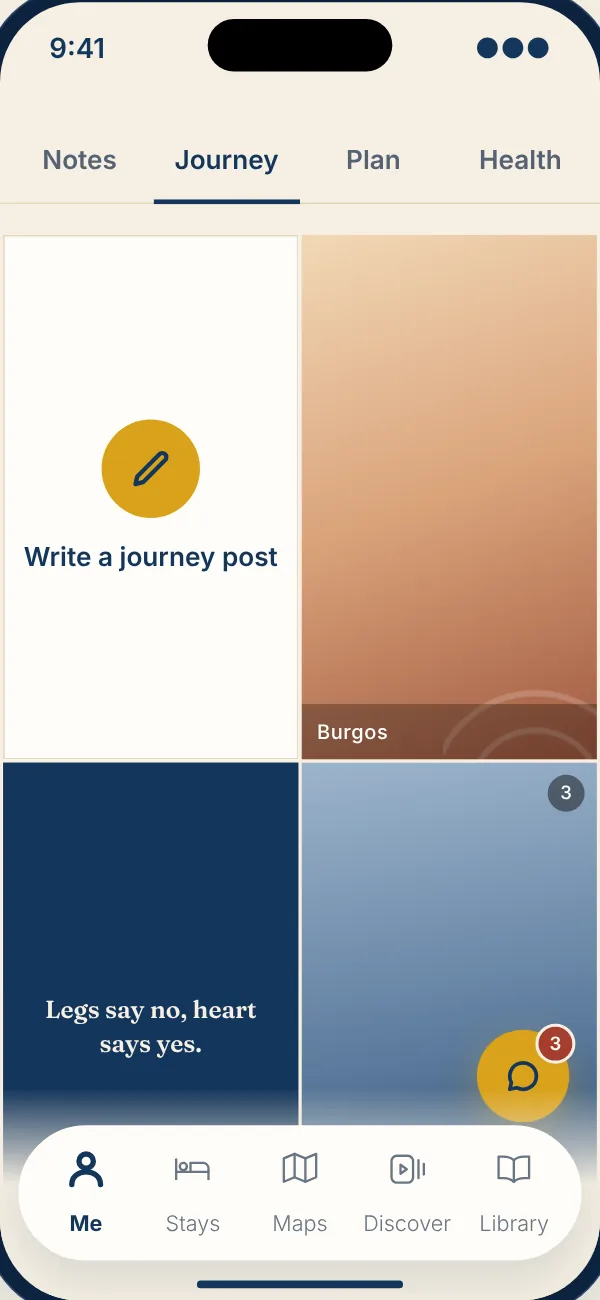
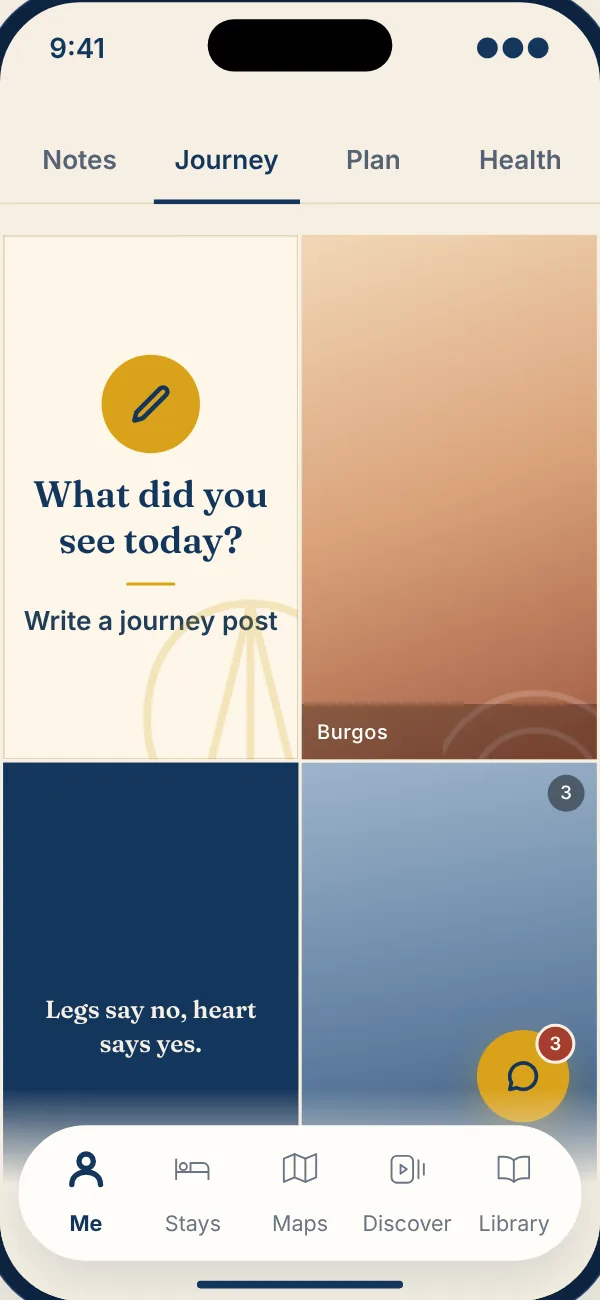
Journey: a more beautiful "Write a journey post" card (#113)
Owner: the "Write a journey post" card was too plain. The first tile of the Journey grid keeps its size, square corners and 2 px gaps, and stays ONE button with the same accessible label, but is now a faint gold wash with a large shell running off the bottom right corner, the gold circle with the pen, "What did you see today?" in Fraunces, a short gold rule and then "Write a journey post". Roles only, so dark mode follows; fits at 320 wide with large text. A contrast check in the tests keeps the words at 4.5 to 1 over the wash and the shell, pressed or not, in both modes (it found muted text at 4.19 to 1 while pressed). Two other designs (a warm one with a dotted path, a bold navy one) are saved as patches.

The design page card and the website picture me-journey.webp are regenerated and show the new card and the new tab bar. The web-smoke scenario now expects the card's question and the action.

Checked: tsc, unit checks, Python tests, design-lint, whole web smoke in CI.

Claude-Session: https://claude.ai/code/session_01Nqpq6SZ55VfnVqdosYhF6n

diff --git a/design/index.html b/design/index.html
@@ -857,9 +857,18 @@ footer .hand { font-family: var(--cp-font-accent); font-size: 36px; color: var(-
 .jg .jt.txt p { margin: 0; font-family: var(--cp-font-title); font-weight: 600; font-size: 16px; line-height: 22px; text-align: center; }
 .jg .jt.txt.blue { background: var(--cp-color-blue); color: var(--cp-color-parchment); }
 .jg .jt.txt.gold { background: var(--cp-color-gold); color: var(--cp-color-blue); }
-.jg .jt.write { display: flex; flex-direction: column; align-items: center; justify-content: center; gap: 14px; padding: 0 12px; background: var(--cp-surface); box-shadow: inset 0 0 0 1px var(--cp-border); font-weight: 600; font-size: 17px; line-height: 22px; text-align: center; cursor: pointer; }
+/* the card that writes a journey post (mobile/src/features/me/WriteCard.tsx): a faint gold wash, a large shell as art off the bottom right corner, the gold
+   circle with the pen, the invitation in Fraunces, a short gold rule, the action; the numbers are JOURNEY_WRITE_CARD of features/me/tabs.ts (wash 0.07, shell 0.22) */
+.jg .jt.write { display: flex; flex-direction: column; align-items: center; justify-content: center; gap: 12px; padding: 0 12px; background: var(--cp-surface); box-shadow: inset 0 0 0 1px var(--cp-border); color: var(--cp-text); font-weight: 600; font-size: 17px; line-height: 22px; text-align: center; cursor: pointer; }
+.jg .jt.write::before { content: ""; position: absolute; inset: 0; background: var(--cp-highlight); opacity: .07; }
+.jg .jt.write > * { position: relative; }
+.jg .jt.write .art { position: absolute; width: 105%; aspect-ratio: 1; right: -36%; bottom: -21%; opacity: .22; color: var(--cp-highlight); }
+.jg .jt.write .art svg { width: 100%; height: 100%; fill: none; stroke: currentColor; stroke-width: .6px; stroke-linecap: round; stroke-linejoin: round; }
 .jg .jt.write .ico { width: 64px; height: 64px; border-radius: 50%; background: var(--cp-highlight); color: var(--cp-on-highlight); display: grid; place-items: center; }
-.jg .jt.write .ico .cp-icon { width: 30px; height: 30px; stroke-width: 2.2px; }
+.jg .jt.write .ico .cp-icon { width: 32px; height: 32px; stroke-width: 2.2px; }
+.jg .jt.write .q { font-family: var(--cp-font-title); font-weight: 600; font-size: 24px; line-height: 30px; }
+.jg .jt.write .rule { width: 32px; height: 2px; border-radius: 1px; background: var(--cp-highlight); }
+.phone[style*="width:320px"] .jg .jt.write { gap: 8px; } .phone[style*="width:320px"] .jg .jt.write .ico { width: 56px; height: 56px; } .phone[style*="width:320px"] .jg .jt.write .ico .cp-icon { width: 28px; height: 28px; } /* the tile of a small phone, as the app draws it (compact) */
 /* ---- Pilgrim: the profile of another pilgrim (mobile/app/pilgrim/[id].tsx). Back, @username and the three dots; the card; Message, Add friend, Requested, or Accept and Decline; their journey in the
    grid of Me without the card that writes a post. A private profile that is not a friend's is a minimal card. Nothing private is on it: no Notes, Plan or Health, no tab strip. ---- */
 .pf-top { display: flex; align-items: center; gap: 12px; }
@@ -2228,7 +2237,7 @@ footer .hand { font-family: var(--cp-font-accent); font-size: 36px; color: var(-
             <div><span class="add" style="width:66px;height:66px"><svg class="cp-icon"><use href="#i-pin"/></svg></span>Castrojeriz</div>
           </div></div><div class="cp-subtabs" style="margin:22px -24px 20px;padding:0 12px"><span>Notes</span><span class="on">Journey</span><span>Plan</span><span>Health</span></div>
           <div class="jg">
-            <button class="jt write" aria-label="Write a journey post"><span class="ico"><svg class="cp-icon"><use href="#i-pen"/></svg></span>Write a journey post</button>
+            <button class="jt write" aria-label="Write a journey post"><span class="art" aria-hidden="true"><svg viewBox="0 0 24 24"><path d="M12 4C7 4 4 8 4 13c0 3 1.5 6 3 7h10c1.5-1 3-4 3-7 0-5-3-9-8-9Z"/><path d="M12 4v16M12 4 8 20M12 4l4 16"/></svg></span><span class="ico"><svg class="cp-icon"><use href="#i-pen"/></svg></span><span class="q">What did you see today?</span><span class="rule"></span>Write a journey post</button>
             <div class="jt"><div class="cp-img v4"></div><span class="cap">Burgos</span></div>
             <div class="jt txt blue"><p>Legs say no, heart says yes.</p><span class="cap">Hontanas</span></div>
             <div class="jt"><div class="cp-img v5"></div><span class="n">3</span><span class="cap">Logroño</span></div>
@@ -2282,7 +2291,7 @@ footer .hand { font-family: var(--cp-font-accent); font-size: 36px; color: var(-
             <div><span class="add" style="width:66px;height:66px"><svg class="cp-icon"><use href="#i-pin"/></svg></span>Castrojeriz</div>
           </div></div><div class="cp-subtabs" style="margin:22px -24px 20px;padding:0 12px"><span>Notes</span><span class="on">Journey</span><span>Plan</span><span>Health</span></div>
           <div class="jg">
-            <button class="jt write" aria-label="Write a journey post"><span class="ico"><svg class="cp-icon"><use href="#i-pen"/></svg></span>Write a journey post</button>
+            <button class="jt write" aria-label="Write a journey post"><span class="art" aria-hidden="true"><svg viewBox="0 0 24 24"><path d="M12 4C7 4 4 8 4 13c0 3 1.5 6 3 7h10c1.5-1 3-4 3-7 0-5-3-9-8-9Z"/><path d="M12 4v16M12 4 8 20M12 4l4 16"/></svg></span><span class="ico"><svg class="cp-icon"><use href="#i-pen"/></svg></span><span class="q">What did you see today?</span><span class="rule"></span>Write a journey post</button>
             <div class="jt"><div class="cp-img v4"></div><span class="cap">Burgos</span></div>
             <div class="jt txt blue"><p>Legs say no, heart says yes.</p><span class="cap">Hontanas</span></div>
             <div class="jt"><div class="cp-img v5"></div><span class="n">3</span><span class="cap">Logroño</span></div>
@@ -2385,7 +2394,7 @@ footer .hand { font-family: var(--cp-font-accent); font-size: 36px; color: var(-
           </div></div><div class="cp-subtabs" style="margin:22px -24px 20px;padding:0 12px"><span>Notes</span><span class="on">Journey</span><span>Plan</span><span>Health</span></div>
           <div class="place-head"><button class="cp-icon-btn flat" aria-label="Back" title="Back to all places"><svg class="cp-icon"><use href="#i-back"/></svg></button><div class="t"><div class="h">Zubiri</div><div class="s">All places</div></div></div>
           <div class="jg">
-            <button class="jt write" aria-label="Write a journey post"><span class="ico"><svg class="cp-icon"><use href="#i-pen"/></svg></span>Write a journey post</button>
+            <button class="jt write" aria-label="Write a journey post"><span class="art" aria-hidden="true"><svg viewBox="0 0 24 24"><path d="M12 4C7 4 4 8 4 13c0 3 1.5 6 3 7h10c1.5-1 3-4 3-7 0-5-3-9-8-9Z"/><path d="M12 4v16M12 4 8 20M12 4l4 16"/></svg></span><span class="ico"><svg class="cp-icon"><use href="#i-pen"/></svg></span><span class="q">What did you see today?</span><span class="rule"></span>Write a journey post</button>
             <div class="jt"><div class="cp-img v2"></div><span class="cap">Zubiri</span></div>
             <div class="jt txt blue"><p>Over the bridge at Zubiri, the first evening.</p><span class="cap">Zubiri</span></div>
           </div>

diff --git a/mobile/src/features/me/__tests__/tabs.test.ts b/mobile/src/features/me/__tests__/tabs.test.ts
@@ -7,7 +7,7 @@
 import assert from 'node:assert/strict';
 import { existsSync, readFileSync } from 'node:fs';
 import { join } from 'node:path';
-import { BADGE_MAX, DEFAULT_ME_TAB, INBOX_LABEL, JOURNEY_WRITE, ME_FAB, ME_TABS, badgeText, inboxLabel, inboxTab } from '../tabs';
+import { BADGE_MAX, DEFAULT_ME_TAB, INBOX_LABEL, JOURNEY_WRITE, JOURNEY_WRITE_CARD, ME_FAB, ME_TABS, badgeText, inboxLabel, inboxTab } from '../tabs';
 
 let n = 0;
 const check = (name: string, fn: () => void) => { fn(); n += 1; console.log(`ok   ${name}`); };
@@ -158,11 +158,22 @@ check('the write card of Journey is cell 0 of the grid and nothing else changes 
   assert.match(card, /accessibilityLabel=\{JOURNEY_WRITE\.label\}/);
   assert.match(card, /export function WriteCard\(\{ width, height, onPress \}: \{ width: number; height: number; onPress: \(\) => void \}\)/, 'its size is the size of a post tile: the grid gives it');
   assert.match(card, /style=\{\(\{ pressed \}\) => \(\{ width, height, /);
-  assert.match(card, /<Icon name="pen" color=\{role\.onHighlight\} size=\{icon\.lg\}/, 'the pen on the gold circle, 32 px (icon.lg): a step of the icon scale (it was 30, which is not one)');
-  assert.match(card, /gap: space\[4\], paddingHorizontal: space\[3\]/, 'the room inside the card is steps of the space scale (the gap was 14)');
-  assert.match(card, /backgroundColor: role\.highlight/, 'a gold circle');
-  assert.match(card, /<AppText variant="label" style=\{\{ textAlign: 'center' \}\}>\{JOURNEY_WRITE\.label\}<\/AppText>/, 'the words are the label style: 17 px');
-  assert.deepEqual([...card.matchAll(/borderRadius: ([\w.]+)/g)].map((m) => m[1]), ['radius.pill'], 'square corners, like the post tiles: only the gold circle is round');
+  assert.match(card, /<Icon name="pen" color=\{role\.onHighlight\} size=\{compact \? icon\.mdPlus : icon\.lg\}/, 'the pen on the gold circle, 32 px (icon.lg), 28 on a small phone: steps of the icon scale (it was 30, which is not one)');
+  assert.match(card, /const compact = height < 320;\s*const disc = compact \? 56 : 64;/, 'a smaller circle on the tile of a small phone (279 high at 320), so that large text fits');
+  // Updated on purpose (2026-11-08, the owner found the card too plain): a warm card. A gold wash and a large faint shell as art, the invitation in Fraunces
+  // over the action, a short gold rule. The gap is 12 (space[3], was space[4]), 8 on the tile of a small phone, so that it all fits a 320 phone with large text.
+  assert.match(card, /gap: compact \? space\[2\] : space\[3\], paddingHorizontal: space\[3\]/, 'the room inside the card is steps of the space scale (the gap was 14, then 16)');
+  assert.match(card, /width: disc, height: disc, borderRadius: radius\.pill, backgroundColor: role\.highlight/, 'a gold circle');
+  assert.equal(JOURNEY_WRITE_CARD.prompt, 'What did you see today?');
+  assert.match(card, /<AppText variant="h4" maxFontSizeMultiplier=\{1\.2\} style=\{\{ textAlign: 'center' \}\}>\{JOURNEY_WRITE_CARD\.prompt\}<\/AppText>/, 'the invitation in the title type (Fraunces, 24 px), growing at most 1.2 times with the text size of the phone');
+  assert.match(card, /<AppText variant="label" style=\{\{ textAlign: 'center' \}\}>\{JOURNEY_WRITE\.label\}<\/AppText>/, 'the action is still written on the card, in the label style: 17 px');
+  assert.ok(card.indexOf('{JOURNEY_WRITE_CARD.prompt}') < card.indexOf('>{JOURNEY_WRITE.label}<'), 'the invitation over the action');
+  assert.match(card, /<Icon name="shell" color=\{role\.highlight\} size=\{art\} strokeWidth=\{0\.6\} \/>/, 'the art is the shell of the app, in the gold role, the width of the card');
+  assert.match(card, /importantForAccessibility="no-hide-descendants" accessibilityElementsHidden/, 'the art is not read out');
+  assert.match(card, /backgroundColor: role\.highlight, opacity: JOURNEY_WRITE_CARD\.wash \}/, 'the wash is the gold role with an opacity: a role, so it follows the mode');
+  assert.ok(JOURNEY_WRITE_CARD.wash <= 0.1 && JOURNEY_WRITE_CARD.shell <= 0.25, 'the wash and the art stay faint');
+  assert.equal((card.match(/<AppText\b/g) ?? []).length, 2, 'two lines of words, no more');
+  assert.deepEqual([...card.matchAll(/borderRadius: ([\w.]+)/g)].map((m) => m[1]), ['radius.pill', 'radius.pill'], 'square corners, like the post tiles: only the gold circle and the gold rule are round');
   assert.doesNotMatch(card, /#[0-9A-Fa-f]{3,8}\b|\brgba?\(|\bc\.\w+/, 'colours from the roles only');
   assert.match(read('src/components/Icon.tsx'), /^ {2}pen: \[/m, 'the pen is an icon of the app');
   assert.equal(tokensText('text', 'label', 'size'), 17, 'the label style is 17 px: readable');
@@ -208,6 +219,25 @@ check('the card keeps its contrast in light and in dark: the words on the card a
     for (const [what, fg, bg, need] of pairs) {
       const got = ratio(roleColour(fg, dark), roleColour(bg, dark));
       assert.ok(got >= need, `${dark ? 'dark' : 'light'}: ${what} is ${got.toFixed(2)} : 1, needs ${need} : 1`);
+    }
+  }
+  // the Journey card is the surface (or sunken, pressed) under a gold wash, and where a line of the shell art runs behind a word, the gold of the shell over that:
+  // the invitation and the action (both text: muted over a line of the shell while pressed was 4.19 : 1) keep 4.5 : 1 on all of it, in both modes
+  const mix = (under: string, over: string, alpha: number) => {
+    const ch = (hex: string) => [0, 2, 4].map((i) => parseInt(hex.replace('#', '').slice(i, i + 2), 16));
+    const [u, o] = [ch(under), ch(over)];
+    return '#' + u.map((v, i) => Math.round(v * (1 - alpha) + o[i] * alpha).toString(16).padStart(2, '0')).join('');
+  };
+  for (const dark of [false, true]) {
+    const gold = roleColour('highlight', dark);
+    for (const base of ['surface', 'surfaceSunken']) {
+      const ground = mix(roleColour(base, dark), gold, JOURNEY_WRITE_CARD.wash);
+      for (const under of [ground, mix(ground, gold, JOURNEY_WRITE_CARD.shell)]) {
+        for (const fg of ['text']) {
+          const got = ratio(roleColour(fg, dark), under);
+          assert.ok(got >= 4.5, `${dark ? 'dark' : 'light'}: ${fg} on the Journey card (${base}, gold wash${under === ground ? '' : ' and a line of the shell'}) is ${got.toFixed(2)} : 1`);
+        }
+      }
     }
   }
   // the gold of the button is the palette gold in both modes (it never changes), and the pen on it is the role onHighlight

diff --git a/mobile/src/features/me/WriteCard.tsx b/mobile/src/features/me/WriteCard.tsx
@@ -2,28 +2,44 @@ import { Pressable, View } from 'react-native';
 import { AppText } from '@/components/AppText';
 import { Icon } from '@/components/Icon';
 import { icon, radius, role, space } from '@/theme';
-import { JOURNEY_WRITE } from './tabs';
+import { JOURNEY_WRITE, JOURNEY_WRITE_CARD } from './tabs';
 
 /**
  * The first cell of the Journey grid, top left: a card that writes a journey post. It replaces the gold pen that used to float over this tab. It is a cell of
  * the grid and nothing else: `width` and `height` are the size of a post tile (gridMetrics: 9:16, two even columns), the corners are square like theirs, and the
  * page background shows through the same 2 px gaps. It is not a post, so it has no picture, no count and no place under it; the viewer never lists it.
  *
- * A card, not a photo: the colours are roles (the surface of a card with a hairline, a gold circle with the pen on it in onHighlight, the words in text), so it
- * is the same card in light and in dark. The whole tile is ONE button, "Write a journey post", which opens /write. The words are 17 px (the label style).
+ * A card, not a photo, and a warm one (the owner found the plain white card too plain, 2026-11-08): the surface of a card with a hairline under a faint gold
+ * wash, a large scallop shell as art that runs off the bottom right corner, a gold circle with the pen, the invitation in Fraunces ("What did you see today?"),
+ * a short gold rule and the action in Inter ("Write a journey post"). The colours are roles and the gold is drawn with opacity, so it is the same card in light
+ * and in dark. The whole tile is ONE button, "Write a journey post", which opens /write; the art is not read out.
  */
 export function WriteCard({ width, height, onPress }: { width: number; height: number; onPress: () => void }) {
+  const art = Math.round(width * 1.05);
+  // a tile of a phone under about 360 wide (279 high at 320) has a smaller circle and less room between the lines, so that large text still fits
+  const compact = height < 320;
+  const disc = compact ? 56 : 64;
   return (
     <Pressable
       accessibilityRole="button"
       accessibilityLabel={JOURNEY_WRITE.label}
       onPress={onPress}
-      style={({ pressed }) => ({ width, height, alignItems: 'center', justifyContent: 'center', gap: space[4], paddingHorizontal: space[3], backgroundColor: pressed ? role.sunken : role.surface, borderWidth: 1, borderColor: role.border })}
+      style={({ pressed }) => ({ width, height, overflow: 'hidden', backgroundColor: pressed ? role.sunken : role.surface, borderWidth: 1, borderColor: role.border })}
     >
-      <View style={{ width: 64, height: 64, borderRadius: radius.pill, backgroundColor: role.highlight, alignItems: 'center', justifyContent: 'center' }}>
-        <Icon name="pen" color={role.onHighlight} size={icon.lg} strokeWidth={2.2} />
+      <View pointerEvents="none" style={{ position: 'absolute', top: 0, right: 0, bottom: 0, left: 0, backgroundColor: role.highlight, opacity: JOURNEY_WRITE_CARD.wash }} />
+      <View pointerEvents="none" importantForAccessibility="no-hide-descendants" accessibilityElementsHidden style={{ position: 'absolute', right: -Math.round(art * 0.34), bottom: -Math.round(art * 0.2), opacity: JOURNEY_WRITE_CARD.shell }}>
+        {/* the shell is art the width of the card, not an icon of the scale (as the faint shell of the Business card), drawn with a fine line so it stays a background */}
+        <Icon name="shell" color={role.highlight} size={art} strokeWidth={0.6} />
       </View>
-      <AppText variant="label" style={{ textAlign: 'center' }}>{JOURNEY_WRITE.label}</AppText>
+      <View style={{ position: 'absolute', top: 0, right: 0, bottom: 0, left: 0, alignItems: 'center', justifyContent: 'center', gap: compact ? space[2] : space[3], paddingHorizontal: space[3] }}>
+        <View style={{ width: disc, height: disc, borderRadius: radius.pill, backgroundColor: role.highlight, alignItems: 'center', justifyContent: 'center' }}>
+          <Icon name="pen" color={role.onHighlight} size={compact ? icon.mdPlus : icon.lg} strokeWidth={2.2} />
+        </View>
+        {/* the invitation grows with the phone's text size up to 1.2 times, so that with large text it and the action still fit a tile of a 320 phone (279 high) */}
+        <AppText variant="h4" maxFontSizeMultiplier={1.2} style={{ textAlign: 'center' }}>{JOURNEY_WRITE_CARD.prompt}</AppText>
+        <View style={{ width: space[8], height: 2, borderRadius: radius.pill, backgroundColor: role.highlight }} />
+        <AppText variant="label" style={{ textAlign: 'center' }}>{JOURNEY_WRITE.label}</AppText>
+      </View>
     </Pressable>
   );
 }

diff --git a/mobile/src/lib/__tests__/navigation.test.ts b/mobile/src/lib/__tests__/navigation.test.ts
@@ -538,7 +538,8 @@ check('the design page shows Me with the strip Notes, Journey, Plan, Health (Not
   // Journey: the card is the first tile of the grid, the chat button floats with its badge, the header is the gear alone
   for (const [label, phone] of [['Me · Journey', journey], ['Me · Journey, grid', grid]] as const) {
     assert.equal((phone.match(/<div class="jg">/g) ?? []).length, 1, `${label}: one grid`);
-    assert.match(phone, /<div class="jg">\s*<button class="jt write" aria-label="Write a journey post"><span class="ico"><svg class="cp-icon"><use href="#i-pen"\/><\/svg><\/span>Write a journey post<\/button>\s*<div class="jt">/, `${label}: the card that writes a post is the first tile of the grid, and the posts follow`);
+    // updated on purpose with the warmer card (2026-11-08): the shell art (the app's shell, aria-hidden), the pen, the invitation, the gold rule, the action
+    assert.match(phone, /<div class="jg">\s*<button class="jt write" aria-label="Write a journey post"><span class="art" aria-hidden="true"><svg viewBox="0 0 24 24">(<path d="[^"]+"\/>){2}<\/svg><\/span><span class="ico"><svg class="cp-icon"><use href="#i-pen"\/><\/svg><\/span><span class="q">What did you see today\?<\/span><span class="rule"><\/span>Write a journey post<\/button>\s*<div class="jt">/, `${label}: the card that writes a post is the first tile of the grid, and the posts follow`);
     assert.equal((phone.match(/aria-label="Write a journey post"/g) ?? []).length, 1, `${label}: one card, and no second way to write on the screen`);
     assert.equal((phone.match(/cp-fab-write/g) ?? []).length, 1, `${label}: one gold button`);
     assert.ok(phone.includes(CHAT('Inbox, 3 unread', '3')), `${label}: the chat button floats with its badge`);

diff --git a/mobile/src/features/me/tabs.ts b/mobile/src/features/me/tabs.ts
@@ -26,6 +26,9 @@ export const ME_FAB: MeFab = { icon: 'chat', href: '/inbox', label: INBOX_LABEL,
 
 /** The card at the head of the Journey grid: it writes a journey post. It is a card of the grid, not a button that floats. */
 export const JOURNEY_WRITE = { label: 'Write a journey post', href: '/write' } as const;
+/** What the card looks like beyond its label (features/me/WriteCard.tsx): the invitation in the title type, and how strongly the gold shows, the wash over the
+ * whole card and the large shell drawn as art behind the words. The words keep their contrast over both (tabs.test.ts mixes the colours). */
+export const JOURNEY_WRITE_CARD = { prompt: 'What did you see today?', wash: 0.07, shell: 0.22 } as const;
 
 /* ------------------------------------------------------------------------------------------------ the numbers of the chat button */
 
